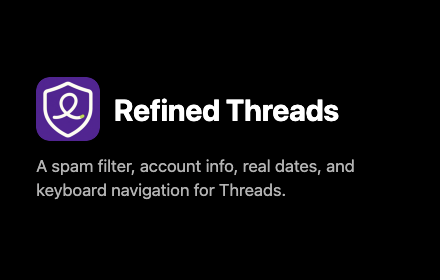
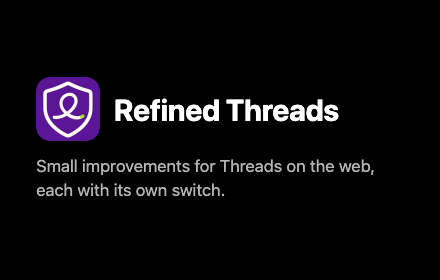
docs: move feature details to docs/features and make the extension intro generic

Changed region(s): [[0.0591, 0.5714, 0.8568, 0.6286], [0.0591, 0.6571, 0.65, 0.7143]]

diff --git a/src/__tests__/docs.test.ts b/src/__tests__/docs.test.ts
@@ -1,0 +1,24 @@
+import { readdirSync, readFileSync } from 'node:fs'
+import { join } from 'node:path'
+import { describe, expect, it } from 'vitest'
+import { FEATURES } from '../features/registry'
+
+const root = join(__dirname, '..', '..')
+const read = (path: string) => readFileSync(join(root, path), 'utf8')
+
+describe('feature docs', () => {
+  const readme = read('README.md')
+
+  it.each(FEATURES.map(feature => [feature.id, feature.enabledByDefault] as const))('%s has a page that states its default, and the README links to it', (id, enabledByDefault) => {
+    const page = read(`docs/features/${id}.md`)
+    const header = page.split('\n').find(line => line.startsWith('**ID**'))
+    expect(header).toContain(`\`${id}\``)
+    expect(header).toContain(enabledByDefault ? '**On by default**' : '**Off by default**')
+    expect(readme).toContain(`(docs/features/${id}.md)`)
+  })
+
+  it('has no page for a feature that does not exist', () => {
+    const pages = readdirSync(join(root, 'docs/features')).map(name => name.replace(/\.md$/, ''))
+    expect(pages.sort()).toEqual(FEATURES.map(feature => feature.id).sort())
+  })
+})

diff --git a/store/chrome/src/promo-tile.html b/store/chrome/src/promo-tile.html
@@ -42,6 +42,6 @@
   </head>
   <body>
     <div class="name"><img src="../../../public/icon/128.png" width="64" height="64" alt="" />Refined Threads</div>
-    <p>A spam filter, account info, real dates, and keyboard navigation for Threads.</p>
+    <p>Small improvements for Threads on the web, each with its own switch.</p>
   </body>
 </html>

diff --git a/README.md b/README.md
@@ -8,22 +8,14 @@ The name follows [Refined GitHub](https://github.com/refined-github/refined-gith
 
 ## Features
 
-| Feature                                     | On by default | What it does                                                                                                                                                                                                                                                                                                                                                                                                                                                        |
-| ------------------------------------------- | ------------- | ------------------------------------------------------------------------------------------------------------------------------------------------------------------------------------------------------------------------------------------------------------------------------------------------------------------------------------------------------------------------------------------------------------------------------------------------------------------- |
-| Spam filter (`spam-filter`)                 | Yes           | Hides or tags spam and bot posts. Levels (Light, Balanced, Strict), blocked words and sites, hidden and allowed accounts, account checks (country, age, followers, posts), user-defined scoring rules, and shareable settings files with presets.                                                                                                                                                                                                                   |
-| Real dates (`absolute-timestamps`)          | No            | Shows the date of each post instead of "5h". Users choose the format (medium, short, long, ISO, US, European, or a custom pattern such as `ddd, MMM D · HH:mm`), whether to show the time, and whether to keep "5h" in front. The settings page shows a live preview.                                                                                                                                                                                               |
-| Keyboard navigation (`keyboard-navigation`) | Yes           | `j` and `k` move between posts, `o` opens the selected post.                                                                                                                                                                                                                                                                                                                                                                                                        |
-| Account info (`account-info`)               | Yes           | Shows a small line of details under each author's name. Each detail has its own switch: whether the author follows you, whether you follow them, country flag, country name (🏴 when the account hides its location), how long the account has been on Threads, follower count, and post count. Location, age, and the follow details need a logged-in Threads session. Threads does not publish how many accounts someone follows, so there is no following count. |
+Each feature has its own switch and its own page of settings. The settings page and the popup list every feature, and changes apply to open Threads tabs at once.
 
-The settings page lists every feature with a switch, a search box, and a settings page per feature. The popup has a switch for every feature, plus the spam filter's daily count and level. Changes apply to open Threads tabs at once.
+- [Spam filter](docs/features/spam-filter.md) hides or tags spam and bot posts. On by default.
+- [Account info](docs/features/account-info.md) shows a short line of account details under each author name. On by default.
+- [Keyboard navigation](docs/features/keyboard-navigation.md) moves between posts with `j` and `k`. On by default.
+- [Real dates](docs/features/absolute-timestamps.md) shows the date of each post instead of "5h". Off by default.
 
-The settings page, popup, and welcome page use Threads' design: monochrome surfaces, Threads' outline grays, black or white primary buttons and switches, and the system font, in light and dark mode.
-
-On the page, everything follows the Threads theme (light or dark, set in Threads) through Threads' own `--barcelona-*` CSS variables:
-
-- A hidden post folds into one bar with a short reason, such as "Hidden · affiliate link", and a Show button.
-- A tagged post gets a small chip after the author name, with × for "Not spam".
-- Account details sit on a small gray line under the author name, inside Threads' own header grid, so the post menu does not move.
+Everything the extension draws on Threads follows the Threads theme, light or dark, through Threads' own `--barcelona-*` CSS variables.
 
 ## How it works
 
@@ -51,7 +43,7 @@ flowchart LR
 - **Settings pages.** The options page builds a form from each feature's `options` spec. A feature can add its own `Settings.vue`.
 - **Capture.** `entrypoints/page-hook.content.ts` runs in the page's MAIN world at `document_start`. It reads posts from the server-rendered `script[type="application/json"]` tags and from `/graphql/query` responses. Threads loads posts through XMLHttpRequest, and the hook also wraps `fetch`. It captures the page's session fields from GraphQL request bodies so it can call the "About this profile" endpoint.
 - **Account lookups.** `src/profile/lookups.ts` runs one request at a time per kind (1.5 s gap for About, 2 s for profile pages), newest first. It backs off after HTTP 429 (30 s, doubling to 5 min) and caches results for 30 days (About), 7 days (profile), or 1 day (failures). Lookups run only when an enabled feature or rule needs them, only for posts within 200 px of the screen, and never while the tab is hidden. A lookup that runs before the page session is ready waits and tries again instead of counting as a failure. Follower counts that Threads already loads for itself (for example, when you open a profile) are copied into the same cache, so an account whose count was seen this way needs no profile request when only the follower count is used.
-- **Spam filter.** `src/rules/engine.ts` compiles rules once and evaluates posts as a pure function. `src/features/spam-filter/` applies the verdicts to `[data-pressable-container="true"]` containers without removing Threads nodes.
+- **Spam filter.** `src/rules/engine.ts` compiles rules once and evaluates posts as a pure function. The rule file format is in [docs/features/spam-filter.md](docs/features/spam-filter.md#settings-file). `src/features/spam-filter/` applies the verdicts to `[data-pressable-container="true"]` containers without removing Threads nodes.
 - **UI.** The options page, popup, and welcome page use Vue 3.6 Vapor mode (`<script setup vapor>`, `createVaporApp`).
 
 ### Data sources on Threads
@@ -65,61 +57,6 @@ These facts were checked on the real site on 2026-11-12.
 | Follower and post count                                                                         | `<meta name="description">` of `https://www.threads.com/@handle`                                                                                                                                           | For example "フォロワー100人・スレッド4,515 件". The extension streams the page and stops at the meta tag, about 110 KB of a 680 KB page.                                                        |
 
 The feed data has no follower count, post count, account age, or view count.
-
-## Spam filter settings file
-
-The spam filter's Share tab exports this format. Import and the advanced editor accept it.
-
-```json
-{
-  "format": "refined-threads-settings",
-  "name": "My spam filter",
-  "description": "Optional text for the people you share it with.",
-  "settings": {
-    "level": "balanced",
-    "tagOnly": false,
-    "display": "collapse",
-    "ruleFile": {
-      "version": 1,
-      "scoring": {
-        "posts": { "tagAt": 2, "hideAt": 3 },
-        "replies": { "tagAt": 2, "hideAt": 3 }
-      },
-      "rules": [
-        {
-          "id": "giveaway-bots",
-          "name": "Giveaway bots",
-          "enabled": true,
-          "target": "replies",
-          "effect": "score",
-          "score": 2,
-          "when": {
-            "all": [
-              { "field": "text", "contains_any": ["giveaway", "抽獎"] },
-              { "field": "author.followers", "lt": 50 }
-            ]
-          }
-        }
-      ]
-    }
-  }
-}
-```
-
-Rule fields:
-
-| Key      | Values                                                                                      |
-| -------- | ------------------------------------------------------------------------------------------- |
-| `id`     | Lower-case letters, digits, and `-`. Import merges rules by `id`.                           |
-| `effect` | `hide`, `tag`, `score` (adds `score` points, -100 to 100), `allow` (never act on the post). |
-| `target` | `all`, `posts`, `replies`.                                                                  |
-| `when`   | A condition. Combine with `all`, `any`, and `not`.                                          |
-
-Condition operators: `is`, `in`, `matches` (regular expression, case-insensitive, at most 200 characters), `contains_any`, `host_in` (link host or its subdomains), `gt`, `lt`. On list fields, `gt` and `lt` compare the list length.
-
-Fields: `text`, `links`, `mentions`, `language`, `hasAiLabel`, `isPaidPartnership`, `isReply`, `selfReplyLinks` (links in the author's own replies in the same thread), `copies` (accounts that posted the same text), `author.username`, `author.fullName`, `author.bio`, `author.isVerified`, `author.isPrivate`, `author.following`, `author.followedBy`, `author.country` (ISO code), `author.ageMonths`, `author.followers`, `author.posts`, `counts.likes`, `counts.replies`, `counts.reposts`, `counts.quotes`.
-
-Built-in spam filter rules have fixed ids (`followed`, `allowed-accounts`, `hidden-accounts`, `blocked-words`, `blocked-sites`, `countries`, `new-accounts`, `few-followers`, `few-posts`, `affiliate-links`, `engagement-bait`, `copy-paste-replies`, `ai-label`, `generated-names`, `strangers-in-replies`). The settings page edits them. Rule files contain no code.
 
 ## Install
 

diff --git a/docs/features/spam-filter.md b/docs/features/spam-filter.md
@@ -1,0 +1,125 @@
+# Spam filter
+
+**ID** `spam-filter` · **On by default** · **Code** [`src/features/spam-filter/`](../../src/features/spam-filter/)
+
+Hides or tags spam and bot posts on Threads. The settings page has six tabs: Protection, Words and accounts, Account filters, My rules, How it looks, and Share and presets.
+
+## On the page
+
+- A hidden post folds into one line with the reason, such as "Hidden · affiliate link", and a **Show** button. After Show, the line offers **Not spam** and **Keep hiding**.
+- A tagged post gets a small chip after the author name. Its × button means "Not spam".
+- **Not spam** adds the author to the allowed accounts.
+- Right-click a link to a Threads profile for **Hide posts from this account** and **Never hide this account**.
+- The popup shows how many posts were hidden and tagged today, the top reasons, and the level.
+
+## Levels
+
+A level turns a set of built-in checks on or off. Each of these checks adds 3 points, except auto-made names and strangers in replies, which add 1 point.
+
+| Level              | Checks                                                                    |
+| ------------------ | ------------------------------------------------------------------------- |
+| Light              | Affiliate links                                                           |
+| Balanced (default) | Affiliate links, engagement bait, copy-paste replies                      |
+| Strict             | All of Balanced, plus AI label, auto-made names, and strangers in replies |
+
+By default, a post is tagged at 2 points and hidden at 3 points. Replies use their own two thresholds, with the same defaults. The thresholds are on the My rules tab.
+
+## Built-in checks
+
+| Check                | What it matches                                                                                               | Default         |
+| -------------------- | ------------------------------------------------------------------------------------------------------------- | --------------- |
+| People you follow    | Authors you follow. Their posts are never hidden.                                                             | On              |
+| Allowed accounts     | Accounts on your allowed list. Never hidden.                                                                  | On              |
+| Hidden accounts      | Accounts on your hidden list. Always hidden.                                                                  | On              |
+| Blocked words        | Posts that contain a word from your list. Hidden.                                                             | On              |
+| Blocked sites        | Posts that link to a site from your list, or its subdomains. Hidden.                                          | On              |
+| Account country      | Accounts based in a country you pick. Hidden.                                                                 | On, empty list  |
+| New accounts         | Accounts that joined less than 6 months ago. Tagged.                                                          | Off             |
+| Few followers        | Fewer than 10 followers. 1 point.                                                                             | Off             |
+| Few posts            | Fewer than 5 posts. 1 point.                                                                                  | Off             |
+| Affiliate links      | Shopee, Amazon, Rakuten, and other affiliate hosts, also in the author's own replies in the thread. 3 points. | Light and up    |
+| Engagement bait      | Phrases such as "comment +1" and "link in bio", in English, Chinese, and Japanese. 3 points.                  | Balanced and up |
+| Copy-paste replies   | The same reply text from three or more accounts. 3 points.                                                    | Balanced and up |
+| AI label             | Posts that Threads marks as made with AI. 3 points.                                                           | Strict          |
+| Auto-made names      | Usernames like `name_83921`. 1 point.                                                                         | Strict          |
+| Strangers in replies | Replies with links or mentions from people who do not follow you. 1 point.                                    | Strict          |
+
+The Protection and Account filters tabs let you change the effect (hide, tag, add points) and the points of their checks.
+
+## Account checks
+
+Account country, new accounts, few followers, and few posts need details that the feed does not have. The extension looks them up through the same requests Threads makes for "About this profile" and the profile page:
+
+- only when one of these checks is on;
+- only for posts near the screen, and never in a hidden tab;
+- one account every 1.5 seconds (About) or 2 seconds (profile page), with results kept for 30 or 7 days.
+
+Country and join date need a logged-in Threads session. Follower counts that Threads already loaded are used without a request.
+
+## How it looks
+
+- **Fold away** (default) shows the one-line bar. **Blur** keeps the post in place, blurred, until you choose Show.
+- **Tag only, never hide** is a test mode. Every post that would be hidden gets a tag instead.
+
+## My rules and presets
+
+A rule has a name, a target (all posts, posts, or replies), a condition, and an effect: **Hide**, **Tag**, **Add points**, or **Never hide**. Never hide wins over every other rule.
+
+Presets add a ready-made set of rules and keep your other rules: Affiliate spam, Engagement bait, New and empty accounts, Reply guard, and Test mode.
+
+## Settings file
+
+The Share and presets tab exports this format. Import and the advanced editor accept it.
+
+```json
+{
+  "format": "refined-threads-settings",
+  "name": "My spam filter",
+  "description": "Optional text for the people you share it with.",
+  "settings": {
+    "level": "balanced",
+    "tagOnly": false,
+    "display": "collapse",
+    "ruleFile": {
+      "version": 1,
+      "scoring": {
+        "posts": { "tagAt": 2, "hideAt": 3 },
+        "replies": { "tagAt": 2, "hideAt": 3 }
+      },
+      "rules": [
+        {
+          "id": "giveaway-bots",
+          "name": "Giveaway bots",
+          "enabled": true,
+          "target": "replies",
+          "effect": "score",
+          "score": 2,
+          "when": {
+            "all": [
+              { "field": "text", "contains_any": ["giveaway", "抽獎"] },
+              { "field": "author.followers", "lt": 50 }
+            ]
+          }
+        }
+      ]
+    }
+  }
+}
+```
+
+Rule fields:
+
+| Key      | Values                                                                                      |
+| -------- | ------------------------------------------------------------------------------------------- |
+| `id`     | Lower-case letters, digits, and `-`. Import merges rules by `id`.                           |
+| `effect` | `hide`, `tag`, `score` (adds `score` points, -100 to 100), `allow` (never act on the post). |
+| `target` | `all`, `posts`, `replies`.                                                                  |
+| `when`   | A condition. Combine with `all`, `any`, and `not`.                                          |
+
+Condition operators: `is`, `in`, `matches`, `contains_any`, `host_in` (link host or its subdomains), `gt`, `lt`. On list fields, `gt` and `lt` compare the list length.
+
+`matches` takes a case-insensitive regular expression of at most 200 characters. It runs on RE2, which takes linear time, so a pattern cannot freeze the page. RE2 has no lookahead and no backreferences. A rule that uses them does nothing.
+
+Fields: `text`, `links`, `mentions`, `language`, `hasAiLabel`, `isPaidPartnership`, `isReply`, `selfReplyLinks` (links in the author's own replies in the same thread), `copies` (accounts that posted the same text), `author.username`, `author.fullName`, `author.bio`, `author.isVerified`, `author.isPrivate`, `author.following`, `author.followedBy`, `author.country` (ISO code), `author.ageMonths`, `author.followers`, `author.posts`, `counts.likes`, `counts.replies`, `counts.reposts`, `counts.quotes`.
+
+Built-in rules have fixed ids: `followed`, `allowed-accounts`, `hidden-accounts`, `blocked-words`, `blocked-sites`, `countries`, `new-accounts`, `few-followers`, `few-posts`, `affiliate-links`, `engagement-bait`, `copy-paste-replies`, `ai-label`, `generated-names`, `strangers-in-replies`. The settings page edits them. Rule files contain no code.

diff --git a/docs/features/absolute-timestamps.md b/docs/features/absolute-timestamps.md
@@ -1,0 +1,41 @@
+# Real dates
+
+**ID** `absolute-timestamps` · **Off by default** · **Code** [`src/features/absolute-timestamps/`](../../src/features/absolute-timestamps/)
+
+Shows the date of each post instead of "5h" or "2d". Hover a date to see the full date and time. Turning the feature off restores Threads' text.
+
+## Options
+
+| Option                         | Values                                                                                                                                      | Default            |
+| ------------------------------ | ------------------------------------------------------------------------------------------------------------------------------------------- | ------------------ |
+| Date format                    | Medium (Nov 13, 2026), Short (11/13/26), Long (November 13, 2026), ISO (2026-11-13), US (11/13/2026), European (13/11/2026), Custom pattern | Medium             |
+| Show the time                  | On or off                                                                                                                                   | On                 |
+| Keep "5h" in front of the date | On or off                                                                                                                                   | Off                |
+| Custom pattern                 | Up to 60 characters                                                                                                                         | `YYYY-MM-DD HH:mm` |
+
+The settings page shows a live preview.
+
+## Custom pattern
+
+The custom pattern is used when the date format is "Custom pattern".
+
+| Token         | Meaning                    |
+| ------------- | -------------------------- |
+| `YYYY`, `YY`  | Year (2026, 26)            |
+| `MM`, `M`     | Month number (01, 1)       |
+| `MMMM`, `MMM` | Month name (November, Nov) |
+| `DD`, `D`     | Day (05, 5)                |
+| `dddd`, `ddd` | Weekday (Friday, Fri)      |
+| `HH`, `H`     | Hour, 24-hour (09, 9)      |
+| `hh`, `h`     | Hour, 12-hour (09, 9)      |
+| `mm`          | Minutes                    |
+| `ss`          | Seconds                    |
+| `A`           | AM or PM                   |
+
+Put other text in brackets. Examples:
+
+| Pattern               | Result                |
+| --------------------- | --------------------- |
+| `YYYY-MM-DD HH:mm`    | 2026-11-13 09:45      |
+| `ddd, MMM D · h:mm A` | Fri, Nov 13 · 9:45 AM |
+| `[Posted] D MMMM`     | Posted 13 November    |

diff --git a/docs/features/account-info.md b/docs/features/account-info.md
@@ -1,0 +1,31 @@
+# Account info
+
+**ID** `account-info` · **On by default** · **Code** [`src/features/account-info/`](../../src/features/account-info/)
+
+Shows a small gray line of details under each author name. The line sits inside Threads' own header grid, so the post menu does not move.
+
+## Details
+
+Each detail has its own switch.
+
+| Detail              | Example        | Default | Needs                                               |
+| ------------------- | -------------- | ------- | --------------------------------------------------- |
+| Follows you         | Follows you    | On      | Nothing extra                                       |
+| You follow them     | Following      | Off     | Nothing extra                                       |
+| Country flag        | 🇯🇵             | On      | An About lookup and a logged-in session             |
+| Country name        | Japan          | Off     | An About lookup and a logged-in session             |
+| How long on Threads | 3y, or 8mo     | On      | An About lookup and a logged-in session             |
+| Follower count      | 1.2K followers | Off     | A profile lookup, or a count Threads already loaded |
+| Post count          | 340 posts      | Off     | A profile lookup                                    |
+
+An account that hides its location shows 🏴, or "🏴 Location hidden" when the country name is on. While a lookup runs, the line shows a small loading bar.
+
+Threads does not publish how many accounts someone follows, so there is no following count.
+
+## Lookups
+
+- Lookups run only for details that are switched on, only for posts near the screen, and never in a hidden tab.
+- One account every 1.5 seconds for About, and every 2 seconds for the profile page, newest first.
+- Results are kept for 30 days (country and join date) or 7 days (counts). A failed lookup waits a day before it runs again.
+- Logged out, Threads has no session for About lookups. The loading bar stops, and the extension tries again with a growing wait, up to 5 minutes.
+- Turning the feature off stops its queued lookups.

diff --git a/CONTRIBUTING.md b/CONTRIBUTING.md
@@ -109,11 +109,15 @@ Add these keys to both `public/_locales/en/messages.json` and `public/_locales/z
 
 If you cannot write Traditional Chinese, copy the English text and say so in the pull request.
 
-## 6. Test
+## 6. Document it
+
+Add `docs/features/<id>.md`. Start it with the same header line as the other pages, for example `**ID** \`my-feature\` · **Off by default** · **Code** [...]`. Then say what changes on Threads, list each option with its default, and say what the feature reads or sends. Add one line for the feature to the Features list in `README.md`.
+
+## 7. Test
 
 Write tests that show what the user sees. `src/features/__tests__/features.test.ts` shows how to run a feature on a small fake Threads page with `postContainer()` from `src/testing/feature.ts`.
 
-The registry test checks every feature. It fails when the id does not match the folder, when an option default is not valid, or when a text key is missing in one language.
+The registry test checks every feature. It fails when the id does not match the folder, when an option default is not valid, or when a text key is missing in one language. The docs test fails when a feature has no page in `docs/features/`, when the page states the wrong default, or when `README.md` does not link to it.
 
 ```sh
 pnpm lint:fix

diff --git a/AGENTS.md b/AGENTS.md
@@ -7,7 +7,7 @@ A Manifest V3 browser extension for Threads web, built with WXT, Vue 3.6 Vapor, 
 - `pnpm check` passes. It runs lint, typecheck, tests, and both builds, and CI runs the same command.
 - A **UI change** is verified on the real surface with the `verify-refined-threads` skill. A UI change is any change to the settings page, the popup, the welcome page, or what the extension draws on Threads (bars, chips, the account line, dates, the keyboard selection).
 - After a **UI change**, the store listing is up to date too. Run `node .agents/skills/store-listing/bin/check.mjs`, and when it reports a problem, update `store/chrome/` with the `store-listing` skill in the same change.
-- After a change to a **feature, a default, a permission, or a network request**, these documents still match the code: the feature table in `README.md`, `PRIVACY.md`, and the descriptions in `store/chrome/listing.md`.
+- After a change to a **feature, a default, a permission, or a network request**, these documents still match the code: the feature's page in `docs/features/`, its line in the Features list of `README.md`, `PRIVACY.md`, and the descriptions in `store/chrome/listing.md`.
 
 ## Conventions
 

diff --git a/docs/features/keyboard-navigation.md b/docs/features/keyboard-navigation.md
@@ -1,0 +1,13 @@
+# Keyboard navigation
+
+**ID** `keyboard-navigation` · **On by default** · **Code** [`src/features/keyboard-navigation/`](../../src/features/keyboard-navigation/)
+
+Moves between posts with the keyboard. The selected post gets a blue line on its left edge and scrolls into view.
+
+| Key | Action                 |
+| --- | ---------------------- |
+| `j` | Next post              |
+| `k` | Previous post          |
+| `o` | Open the selected post |
+
+The keys do nothing while you type in a text field, or when you hold Ctrl, Cmd, or Alt.
